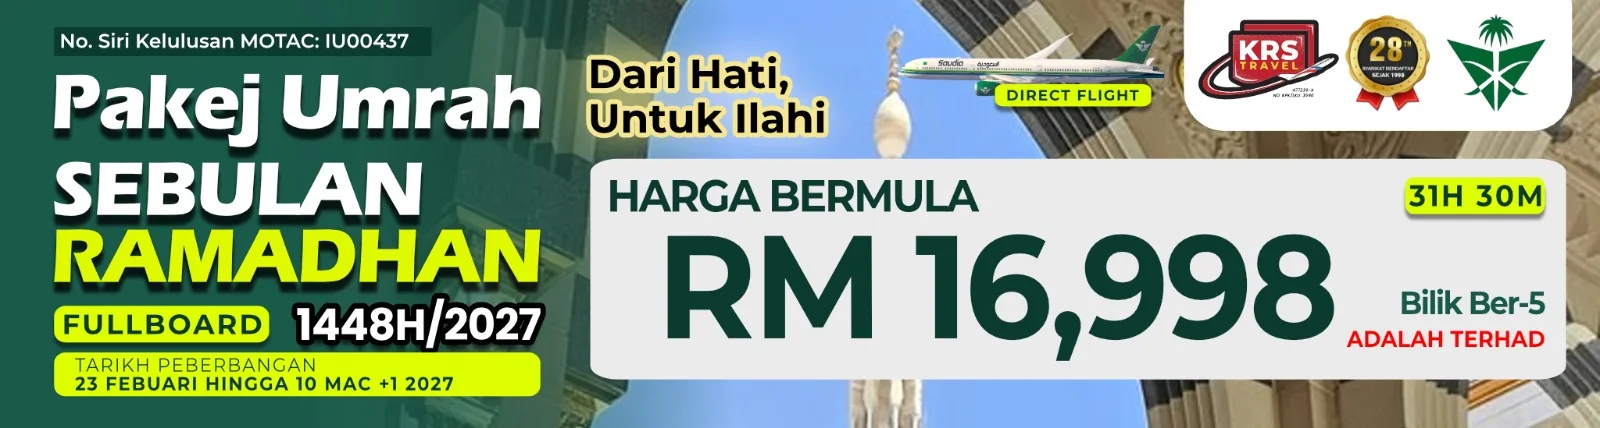
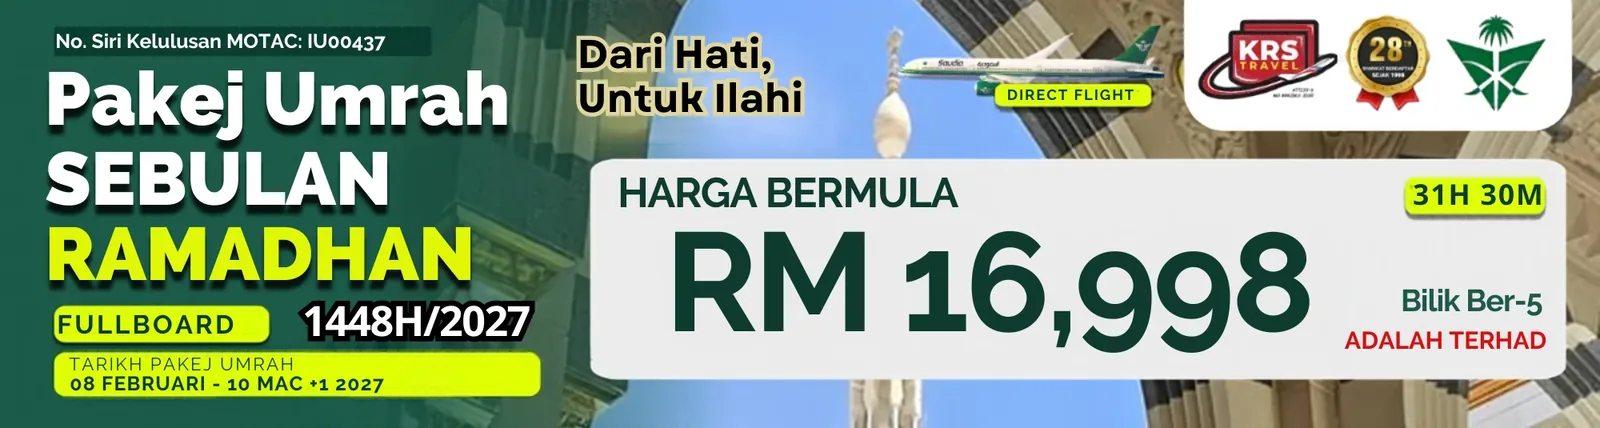
Swap in the new sebulan Ramadhan slide
The replacement banner carries the direct-flight badge and the 31H 30M
pill, and dates the pakej 08 Februari - 10 Mac, matching the card on
umrah.html; the alt text said 23 Februari, so correct that too.

diff --git a/site-live/index.html b/site-live/index.html
@@ -947,7 +947,7 @@ body.is-lbox-open{overflow:hidden}
 
       <a class="hsl__slide" href="#" data-pautan-belum-sedia>
         <img src="images/slider/slaid-sebulan-ramadhan-1448h.webp" width="1600" height="428" loading="lazy" decoding="async"
-             alt="Pakej Umrah Sebulan Ramadhan 1448H/2027 — fullboard 31 hari 30 malam, direct flight Saudia, 23 Februari hingga 10 Mac 2027. Harga bermula RM16,998 sebilik ber-5. Tempat adalah terhad.">
+             alt="Pakej Umrah Sebulan Ramadhan 1448H/2027 — fullboard 31 hari 30 malam, direct flight Saudia, 08 Februari hingga 10 Mac 2027. Harga bermula RM16,998 sebilik ber-5. Bilik ber-5 adalah terhad.">
       </a>
 
       <a class="hsl__slide" href="#" data-pautan-belum-sedia>
